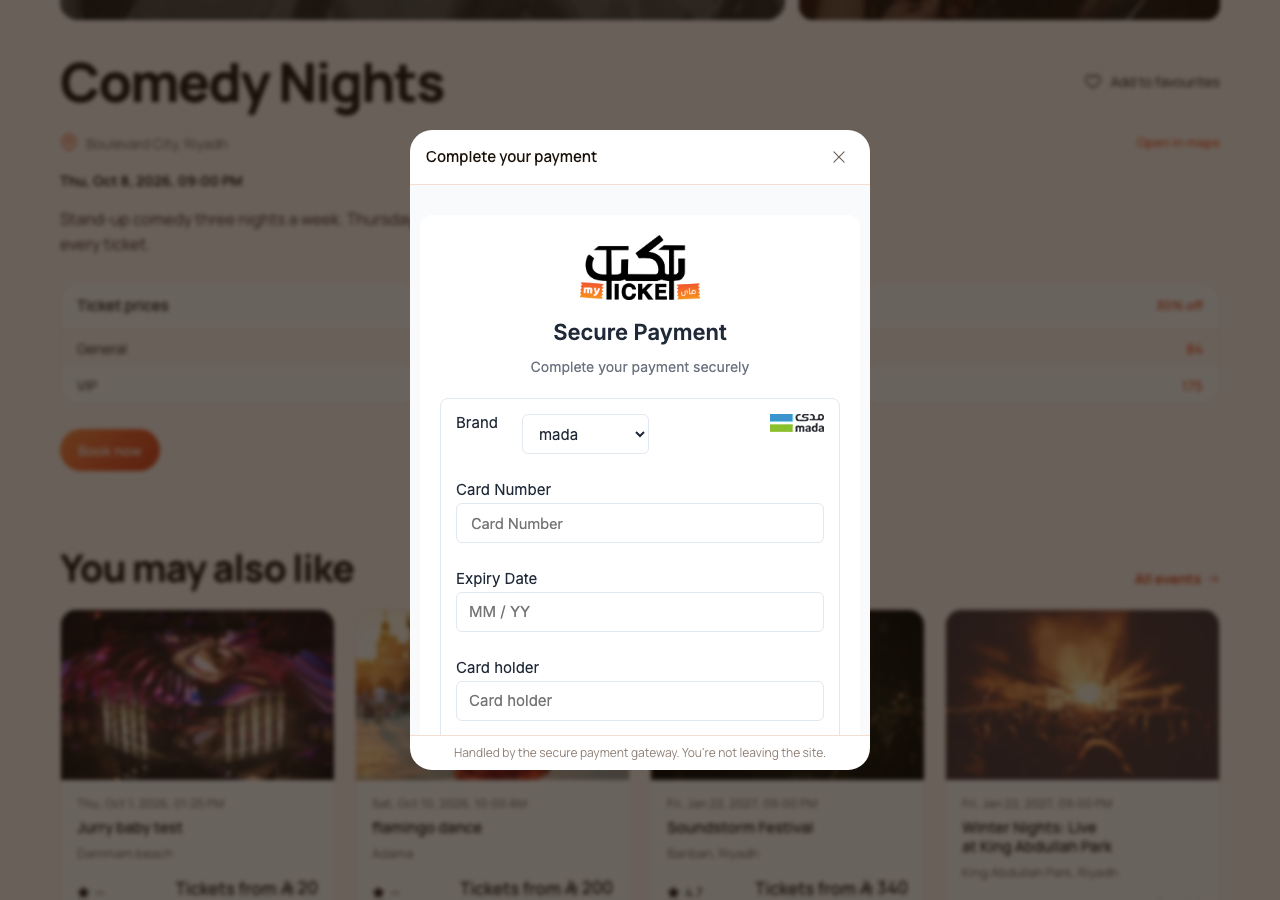
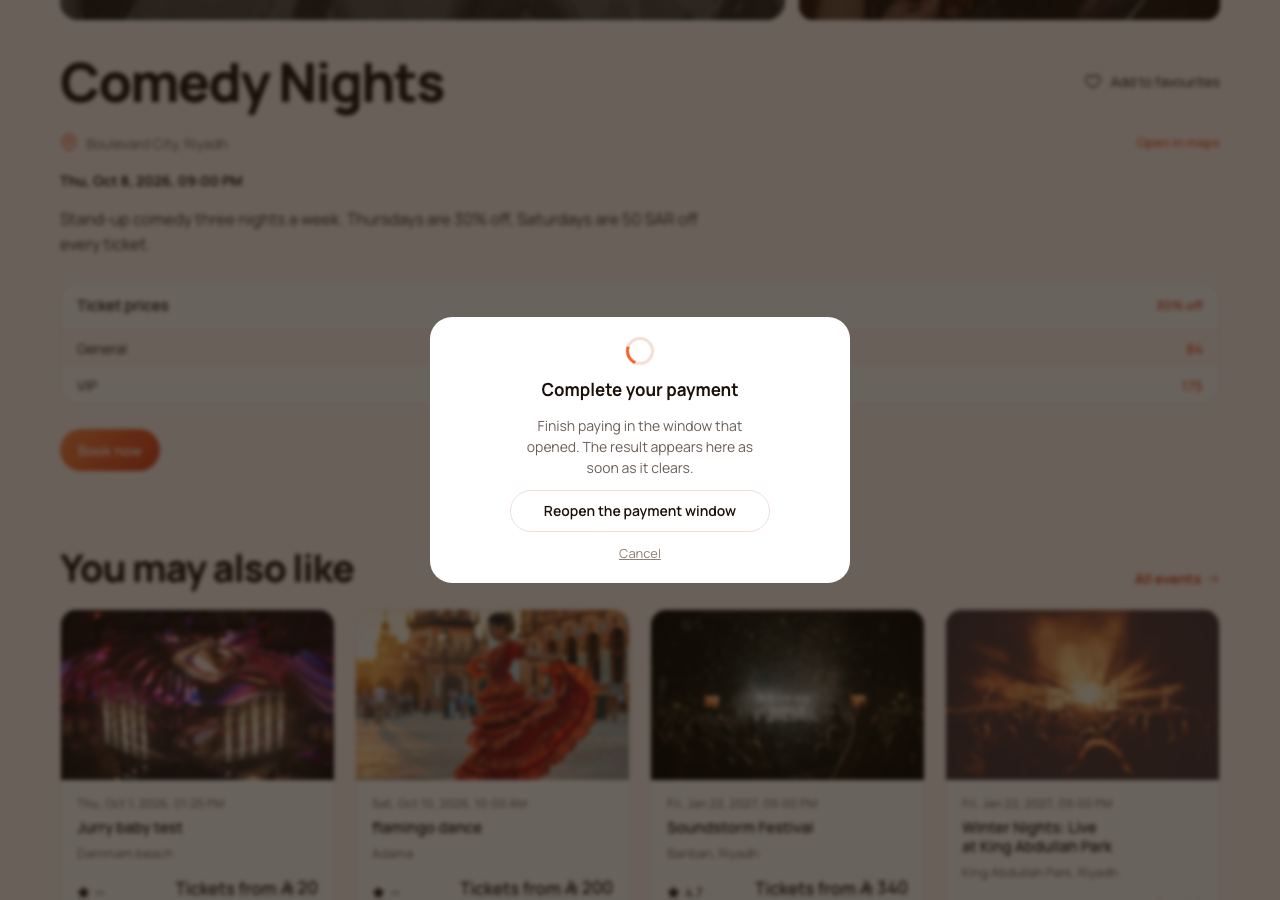
Pay in a window the gateway can actually drive, and listen to the order
You were right that it has to be a window. I tried an overlay and watched it
fail twice: the gateway's 3-D Secure step navigates the top frame, which tore
the site out from under the buyer and dumped them on the home page; forcing the
result to stay in the frame instead left the gateway's own redirect page
stranded there forever. Both were observed in a browser, not reasoned about.

So the gateway gets its own window, as the original did. What is not copied is
how the original learned the result — it polled `window.closed`, which told it
nothing whenever the window was blocked, closed early, or opened on a phone.
Here the window is only a place to type a card. The outcome is read by polling
the order on our server, so a closed window cannot produce a wrong answer.

The window is opened on the click itself, blank, and pointed at the gateway once
the order exists. Opening it after the round trip is not attributable to a user
gesture and every browser blocks it — which is exactly what happened on the
first attempt. If it is blocked anyway, the whole page goes to the gateway and
the return handler picks it up.

Apple Pay still takes the top-level page: its sheet only runs in the main
browsing context on the validated domain.

Verified end to end in a browser: window opens, card entered, 3-D Secure
completed, callback runs, the site stays put and reacts to the order. 23 checks
passing.

Changed region(s): [[0.3125, 0.1244, 0.6875, 0.8711]]

diff --git a/src/pages/_guest/PaymentFrame.tsx b/src/pages/_guest/PaymentFrame.tsx
@@ -1,25 +1,26 @@
-import { useEffect } from "react";
+import { useEffect, useRef } from "react";
 import { useTranslation } from "react-i18next";
 import * as DialogPrimitive from "@radix-ui/react-dialog";
-import { CloseIcon } from "@/components/icons";
+import { Button } from "@/components/ui";
+import { PageSection } from "@/layouts";
 import { useGetOrderDetailsQuery } from "@/app/api/ordersApi";
 
 /**
- * The gateway's own payment page, shown over the site instead of replacing it.
+ * The gateway, in its own window, with the outcome read from our server.
  *
- * The card form is still served by the gateway, so card details never touch our
- * code and the PCI posture is unchanged — this only changes where the page is
- * drawn. The buyer keeps their place on the event, there is no popup to be
- * blocked, and no hand-off to a different site to come back from.
+ * It has to be a separate window. The gateway's 3-D Secure step and its redirect
+ * page both navigate the top frame, so inside an overlay they either tear the
+ * site out from under the buyer or strand themselves — both were tried and both
+ * were watched happening.
  *
- * The frame is never asked what happened. It cannot be read across origins and
- * should not be trusted if it could; the outcome comes from polling the order on
- * our server, exactly as it does on the return page. Closing the overlay cancels
- * nothing — the order stays payable.
+ * What is NOT copied from the original is how it learned the result: it polled
+ * `window.closed` and lost the answer whenever the window was blocked, closed
+ * early, or opened on a phone. The window here is only a place to type a card.
+ * The truth comes from polling the order, so a closed window, a blocked popup or
+ * a buyer who wanders off cannot produce a wrong outcome.
  */
 export interface PaymentFrameProps {
   open: boolean;
-  url: string | null;
   orderId: number | null;
   onPaid: (orderId: number) => void;
   onFailed: (orderId: number) => void;
@@ -28,13 +29,19 @@ export interface PaymentFrameProps {
 
 export function PaymentFrame({
   open,
-  url,
   orderId,
   onPaid,
   onFailed,
   onClose,
 }: PaymentFrameProps) {
   const { t } = useTranslation(["checkout", "common"]);
+  // The window is opened by the click, before this renders — see the booking
+  // handler. Here we only need a handle to close it when the order settles.
+  const windowRef = useRef<Window | null>(null);
+  useEffect(() => {
+    if (!open) return;
+    windowRef.current = window.open("", "MyTicketPayment");
+  }, [open]);
 
   const { data: order } = useGetOrderDetailsQuery(orderId!, {
     skip: !open || orderId == null,
@@ -48,40 +55,43 @@ export function PaymentFrame({
   useEffect(() => {
     if (!open || orderId == null || !status) return;
     if (status.includes("pending") || status.includes("await")) return;
+    windowRef.current?.close();
     if (status.includes("paid") || status.includes("success")) onPaid(orderId);
     else onFailed(orderId);
   }, [onFailed, onPaid, open, orderId, status]);
 
-  if (!url) return null;
+  if (!open) return null;
 
   return (
     <DialogPrimitive.Root open={open} onOpenChange={(next) => !next && onClose()}>
       <DialogPrimitive.Portal>
         <DialogPrimitive.Overlay className="fixed inset-0 z-[60] bg-surface-inverse/65 backdrop-blur-[2px]" />
-        <DialogPrimitive.Content className="fixed inset-x-0 bottom-0 z-[60] flex h-[92dvh] flex-col overflow-hidden rounded-t-[22px] bg-surface-default outline-none sm:inset-0 sm:m-auto sm:h-[640px] sm:max-h-[90dvh] sm:w-[min(100vw-2rem,460px)] sm:rounded-[22px]">
-          <div className="flex items-center justify-between gap-md border-b border-border-default px-lg py-md">
-            <DialogPrimitive.Title className="text-[15px] font-semibold text-ink-primary">
-              {t("checkout:payment.frameTitle")}
-            </DialogPrimitive.Title>
-            <DialogPrimitive.Close
-              aria-label={t("common:actions.close")}
-              className="rounded-full p-[6px] text-ink-secondary hover:text-ink-primary"
-            >
-              <CloseIcon size={18} />
-            </DialogPrimitive.Close>
-          </div>
-
-          <iframe
-            src={url}
-            title={t("checkout:payment.frameTitle")}
-            className="min-h-0 w-full flex-1 border-0"
-            // The gateway needs these to run its own card and 3-D Secure flow.
-            allow="payment *; clipboard-write"
-          />
-
-          <p className="border-t border-border-default px-lg py-sm text-center text-[12px] text-ink-muted">
-            {t("checkout:payment.frameNote")}
-          </p>
+        <DialogPrimitive.Content className="fixed inset-0 z-[60] m-auto h-fit w-[min(100vw-2rem,420px)] rounded-[22px] bg-surface-default p-xl outline-none">
+          <PageSection padTop={0} padBottom={0}>
+            <div className="flex flex-col items-center gap-md text-center">
+              <span className="size-[28px] animate-spin rounded-full border-[3px] border-border-default border-t-ink-brand" />
+              <DialogPrimitive.Title className="text-[17px] font-bold text-ink-primary">
+                {t("checkout:payment.frameTitle")}
+              </DialogPrimitive.Title>
+              <p className="text-[14px] text-ink-secondary">
+                {t("checkout:payment.windowNote")}
+              </p>
+              <Button
+                variant="secondary"
+                className="w-full"
+                onClick={() => window.open("", "MyTicketPayment")?.focus()}
+              >
+                {t("checkout:payment.reopenWindow")}
+              </Button>
+              <button
+                type="button"
+                onClick={onClose}
+                className="text-[13px] text-ink-muted underline"
+              >
+                {t("common:actions.cancel")}
+              </button>
+            </div>
+          </PageSection>
         </DialogPrimitive.Content>
       </DialogPrimitive.Portal>
     </DialogPrimitive.Root>

diff --git a/src/pages/events/EventDetailPage.tsx b/src/pages/events/EventDetailPage.tsx
@@ -317,9 +317,7 @@ export function EventDetailPage() {
    */
   const [bookingOpen, setBookingOpen] = useState(false);
   /** Gateway page shown over the site while a card payment is taken. */
-  const [payment, setPayment] = useState<{ url: string; orderId: number } | null>(
-    null,
-  );
+  const [payment, setPayment] = useState<{ orderId: number } | null>(null);
 
   const { data: apiSeats } = useGetEventSeatsQuery(resolvedId!, {
     skip: !resolvedId || seatingType !== "assigned",
@@ -414,6 +412,19 @@ export function EventDetailPage() {
     });
     if (!allowed) return;
 
+    /*
+     * Open the payment window NOW, on the click that triggered this.
+     *
+     * The gateway url does not exist yet — it takes a round trip to mint — but a
+     * window opened after an await is not attributable to a user gesture and
+     * every browser blocks it. So claim the window first and point it at the
+     * gateway once we have the address.
+     */
+    const payWindow =
+      booking.method === "apple"
+        ? null
+        : window.open("about:blank", "MyTicketPayment", "width=520,height=720");
+
     const seatIds = booking.lines
       .map((line) => line.seatId)
       .filter((id): id is number => Number.isInteger(id));
@@ -481,22 +492,27 @@ export function EventDetailPage() {
       if (redirectUrl) {
         sessionStorage.setItem(PAYING_ORDER_KEY, String(orderId));
 
-        // Apple Pay will not run in a frame: the payment sheet requires the
-        // top-level browsing context and the merchant domain it was validated
-        // against. Cards have no such rule, so they stay in the overlay where
-        // the buyer keeps their place; Apple Pay takes the whole page and comes
-        // back through the return handler.
+        // Apple Pay needs the top-level page: its sheet only runs in the main
+        // browsing context, on the domain it was validated against.
         if (booking.method === "apple") {
           window.location.assign(redirectUrl);
           return;
         }
 
-        setPayment({ url: redirectUrl, orderId });
+        if (payWindow && !payWindow.closed) {
+          payWindow.location.replace(redirectUrl);
+          setPayment({ orderId });
+          return;
+        }
+
+        // Blocked after all — take the whole page rather than strand the buyer.
+        window.location.assign(redirectUrl);
         return;
       }
 
       navigate(`/order-confirmation?orderId=${orderId}`);
     } catch (error) {
+      payWindow?.close();
       dispatch(
         toastPushed("error", apiErrorMessage(error, t("detail.claimFailed"))),
       );
@@ -691,7 +707,6 @@ export function EventDetailPage() {
 
           <PaymentFrame
             open={payment != null}
-            url={payment?.url ?? null}
             orderId={payment?.orderId ?? null}
             onPaid={(id) => {
               sessionStorage.removeItem(PAYING_ORDER_KEY);
